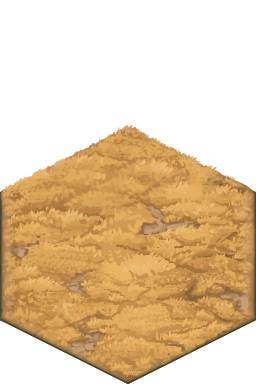
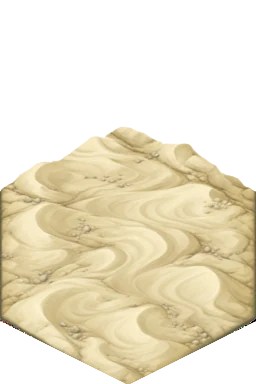
feat(territory): compose neighbor-aware biome tiles

diff --git a/src/ui/territory_map_tile_composer.ts b/src/ui/territory_map_tile_composer.ts
@@ -1,0 +1,187 @@
+import { TERRITORY_AXIAL_DIRECTIONS } from '../sim/territory_manifest';
+import {
+  type TerritoryMapArt,
+  type TerritoryMapArtKey,
+  type TerritoryMapArtTransform,
+  territoryMapArtKeyForCell,
+  territoryMapArtTransformForCell,
+  territoryTransitionArtKey,
+} from './territory_map_art';
+import type { TerritoryMapHex } from './territory_map_view';
+
+export const TERRITORY_COMPOSITE_WIDTH = 226;
+export const TERRITORY_COMPOSITE_HEIGHT = 384;
+export const TERRITORY_COMPOSITE_PIVOT_X = TERRITORY_COMPOSITE_WIDTH / 2;
+export const TERRITORY_COMPOSITE_PIVOT_Y = 123 + 261 / 2;
+
+const FOOTPRINT_TOP = 123;
+const FOOTPRINT_BOTTOM = 384;
+const FOOTPRINT_RADIUS_Y = (FOOTPRINT_BOTTOM - FOOTPRINT_TOP) / 2;
+const FOOTPRINT_RADIUS_X = TERRITORY_COMPOSITE_WIDTH / Math.sqrt(3);
+const HEX_APOTHEM = Math.sqrt(3) / 2;
+const MAX_CACHE_ENTRIES = 128;
+
+function clamp01(value: number): number {
+  return Math.max(0, Math.min(1, value));
+}
+
+function smoothstep(edge0: number, edge1: number, value: number): number {
+  const t = clamp01((value - edge0) / (edge1 - edge0));
+  return t * t * (3 - 2 * t);
+}
+
+/**
+ * Calculates an irregular, deterministic material connection for one side of a
+ * tile. Coordinates are in the normalized 226x384 composition canvas. Noise is
+ * sampled in world space, so the contour remains stable while panning/zooming.
+ */
+export function territoryConnectionAlpha(
+  q: number,
+  r: number,
+  side: number,
+  x: number,
+  y: number,
+): number {
+  const dx = (x - TERRITORY_COMPOSITE_PIVOT_X) / FOOTPRINT_RADIUS_X;
+  const dy = (y - TERRITORY_COMPOSITE_PIVOT_Y) / FOOTPRINT_RADIUS_Y;
+  const angle = -(Math.PI / 3) * side;
+  const nx = Math.cos(angle);
+  const ny = Math.sin(angle);
+  const inwardDistance = HEX_APOTHEM - (dx * nx + dy * ny);
+  if (inwardDistance < -0.015 || inwardDistance > 0.48) return 0;
+
+  const worldX = Math.sqrt(3) * (q + r / 2) + dx;
+  const worldY = 1.5 * r + dy;
+  const broad = Math.sin(worldX * 5.73 + worldY * 4.11) * 0.045;
+  const fine = Math.sin(worldX * 12.17 - worldY * 9.37 + side * 0.71) * 0.018;
+  const connectionDepth = 0.34 + broad + fine;
+  return (1 - smoothstep(0.015, connectionDepth, inwardDistance)) * 0.5;
+}
+
+function compositeHexPath(ctx: CanvasRenderingContext2D): void {
+  ctx.moveTo(TERRITORY_COMPOSITE_PIVOT_X, FOOTPRINT_TOP);
+  ctx.lineTo(TERRITORY_COMPOSITE_WIDTH, FOOTPRINT_TOP + FOOTPRINT_RADIUS_Y / 2);
+  ctx.lineTo(TERRITORY_COMPOSITE_WIDTH, FOOTPRINT_BOTTOM - FOOTPRINT_RADIUS_Y / 2);
+  ctx.lineTo(TERRITORY_COMPOSITE_PIVOT_X, FOOTPRINT_BOTTOM);
+  ctx.lineTo(0, FOOTPRINT_BOTTOM - FOOTPRINT_RADIUS_Y / 2);
+  ctx.lineTo(0, FOOTPRINT_TOP + FOOTPRINT_RADIUS_Y / 2);
+  ctx.closePath();
+}
+
+function drawArt(
+  ctx: CanvasRenderingContext2D,
+  image: HTMLImageElement,
+  transform: TerritoryMapArtTransform,
+  clipToFootprint: boolean,
+): void {
+  ctx.save();
+  if (clipToFootprint) {
+    ctx.beginPath();
+    compositeHexPath(ctx);
+    ctx.clip();
+  }
+  ctx.translate(TERRITORY_COMPOSITE_PIVOT_X, TERRITORY_COMPOSITE_PIVOT_Y);
+  if (transform.rotationSteps) ctx.rotate((transform.rotationSteps * Math.PI) / 3);
+  if (transform.mirrorX) ctx.scale(-1, 1);
+  ctx.drawImage(
+    image,
+    -TERRITORY_COMPOSITE_PIVOT_X,
+    -TERRITORY_COMPOSITE_PIVOT_Y,
+    TERRITORY_COMPOSITE_WIDTH,
+    TERRITORY_COMPOSITE_HEIGHT,
+  );
+  ctx.restore();
+}
+
+function connectionMask(cell: TerritoryMapHex, side: number): HTMLCanvasElement {
+  const canvas = document.createElement('canvas');
+  canvas.width = TERRITORY_COMPOSITE_WIDTH;
+  canvas.height = TERRITORY_COMPOSITE_HEIGHT;
+  const ctx = canvas.getContext('2d');
+  if (!ctx) return canvas;
+  const mask = ctx.createImageData(canvas.width, canvas.height);
+  for (let y = FOOTPRINT_TOP; y < canvas.height; y += 1) {
+    for (let x = 0; x < canvas.width; x += 1) {
+      const alpha = territoryConnectionAlpha(cell.q, cell.r, side, x + 0.5, y + 0.5);
+      if (alpha <= 0) continue;
+      mask.data[(y * canvas.width + x) * 4 + 3] = Math.round(alpha * 255);
+    }
+  }
+  ctx.putImageData(mask, 0, 0);
+  return canvas;
+}
+
+function connectionSignature(cell: TerritoryMapHex, baseKey: TerritoryMapArtKey): string {
+  return `${cell.q},${cell.r}:${baseKey}:${cell.neighborBiomes
+    .map((biome) => biome ?? '-')
+    .join(',')}`;
+}
+
+/**
+ * Produces one final image per neighbor combination instead of painting generic
+ * bands over the visible map. Only cross-biome sides need a connection layer;
+ * same-biome authored tiles already share one palette and remain crisp.
+ */
+export class TerritoryMapTileComposer {
+  private readonly cache = new Map<string, HTMLCanvasElement>();
+
+  compose(cell: TerritoryMapHex, art: TerritoryMapArt): HTMLCanvasElement | null {
+    const baseKey = territoryMapArtKeyForCell(cell);
+    const baseImage = art[baseKey];
+    if (!baseImage) return null;
+    const connections = cell.neighborBiomes.map((neighborBiome, side) => {
+      if (!neighborBiome || neighborBiome === cell.biome) return null;
+      const key = territoryTransitionArtKey(neighborBiome, cell.q, cell.r, side);
+      const image = art[key];
+      if (!image) return undefined;
+      const [dq, dr] = TERRITORY_AXIAL_DIRECTIONS[side];
+      return {
+        image,
+        transform: territoryMapArtTransformForCell({ q: cell.q + dq, r: cell.r + dr }, key),
+        side,
+      };
+    });
+    if (connections.some((connection) => connection === undefined)) return null;
+    if (connections.every((connection) => connection === null)) return null;
+
+    const signature = connectionSignature(cell, baseKey);
+    const cached = this.cache.get(signature);
+    if (cached) {
+      this.cache.delete(signature);
+      this.cache.set(signature, cached);
+      return cached;
+    }
+
+    const canvas = document.createElement('canvas');
+    canvas.width = TERRITORY_COMPOSITE_WIDTH;
+    canvas.height = TERRITORY_COMPOSITE_HEIGHT;
+    const ctx = canvas.getContext('2d');
+    if (!ctx) return null;
+    ctx.imageSmoothingEnabled = true;
+    ctx.imageSmoothingQuality = 'high';
+    const baseTransform = territoryMapArtTransformForCell(cell, baseKey);
+    drawArt(ctx, baseImage, baseTransform, baseTransform.rotationSteps !== 0);
+
+    for (const connection of connections) {
+      if (!connection) continue;
+      const layer = document.createElement('canvas');
+      layer.width = canvas.width;
+      layer.height = canvas.height;
+      const layerCtx = layer.getContext('2d');
+      if (!layerCtx) continue;
+      layerCtx.imageSmoothingEnabled = true;
+      layerCtx.imageSmoothingQuality = 'high';
+      drawArt(layerCtx, connection.image, connection.transform, true);
+      layerCtx.globalCompositeOperation = 'destination-in';
+      layerCtx.drawImage(connectionMask(cell, connection.side), 0, 0);
+      ctx.drawImage(layer, 0, 0);
+    }
+
+    this.cache.set(signature, canvas);
+    if (this.cache.size > MAX_CACHE_ENTRIES) {
+      const oldest = this.cache.keys().next().value;
+      if (oldest) this.cache.delete(oldest);
+    }
+    return canvas;
+  }
+}

diff --git a/src/ui/territory_map_painter.ts b/src/ui/territory_map_painter.ts
@@ -9,9 +9,9 @@ import {
   territoryMapArt,
   territoryMapArtKeyForCell,
   territoryMapArtTransformForCell,
-  territoryTransitionArtKey,
   territoryTerrainArtRect,
 } from './territory_map_art';
+import { TerritoryMapTileComposer } from './territory_map_tile_composer';
 import {
   buildTerritoryMapModel,
   type TerritoryMapCenter,
@@ -59,6 +59,8 @@ export interface TerritoryPaintOptions {
 }
 
 export class TerritoryMapPainter {
+  private readonly tileComposer = new TerritoryMapTileComposer();
+
   constructor(private readonly onArtReady: () => void = () => undefined) {}
 
   paint(ctx: CanvasRenderingContext2D, options: TerritoryPaintOptions): TerritoryMapModel | null {
@@ -285,15 +287,18 @@ export class TerritoryMapPainter {
     const sorted = [...cells].sort((a, b) => a.my - b.my || a.mx - b.mx);
     ctx.imageSmoothingEnabled = true;
     ctx.imageSmoothingQuality = 'high';
-    // Each cell draws one complete authored tile, followed by six possible
-    // neighbor-aware material bands. The bands are generated at runtime for
-    // every directional combination, avoiding a brittle transition-sprite
-    // matrix while keeping the exact authored hex footprint and pivot.
+    // Every cross-biome neighbor combination resolves to one cached, composed
+    // tile image. No generic overlay bands are painted into the final map.
     for (const cell of sorted) {
       const key = territoryMapArtKeyForCell(cell);
       const image = art[key];
       if (!image) continue;
       const rect = territoryTerrainArtRect(cell.mx, cell.my, cell.radiusPx);
+      const composite = this.tileComposer.compose(cell, art);
+      if (composite) {
+        ctx.drawImage(composite, rect.x, rect.y, rect.width, rect.height);
+        continue;
+      }
       const transform = territoryMapArtTransformForCell(cell, key);
       ctx.save();
       if (transform.rotationSteps) {
@@ -306,63 +311,7 @@ export class TerritoryMapPainter {
       if (transform.mirrorX) ctx.scale(-1, 1);
       ctx.drawImage(image, rect.x - cell.mx, rect.y - cell.my, rect.width, rect.height);
       ctx.restore();
-      this.biomeTransitions(ctx, cell, art);
     }
-  }
-
-  private biomeTransitions(
-    ctx: CanvasRenderingContext2D,
-    cell: TerritoryMapHex,
-    art: TerritoryMapArt,
-  ): void {
-    for (let side = 0; side < 6; side += 1) {
-      const neighborBiome = cell.neighborBiomes[side];
-      if (!neighborBiome || neighborBiome === cell.biome) continue;
-      const key = territoryTransitionArtKey(neighborBiome, cell.q, cell.r, side);
-      const image = art[key];
-      if (!image) continue;
-      const rect = territoryTerrainArtRect(cell.mx, cell.my, cell.radiusPx);
-      const transform = territoryMapArtTransformForCell(
-        { q: cell.q + side * 17, r: cell.r - side * 11 },
-        key,
-      );
-      // Two nested trapezoids feather the neighbor material into this cell.
-      // The opposite cell performs the mirrored operation, giving every shared
-      // edge a soft two-material handoff without hiding either tile's centre.
-      this.transitionBand(ctx, cell, side, 1, 0.72, image, rect, transform, 0.5);
-      this.transitionBand(ctx, cell, side, 0.72, 0.5, image, rect, transform, 0.19);
-    }
-  }
-
-  private transitionBand(
-    ctx: CanvasRenderingContext2D,
-    cell: TerritoryMapHex,
-    side: number,
-    outerScale: number,
-    innerScale: number,
-    image: HTMLImageElement,
-    rect: ReturnType<typeof territoryTerrainArtRect>,
-    transform: ReturnType<typeof territoryMapArtTransformForCell>,
-    alpha: number,
-  ): void {
-    const start = -Math.PI / 6 - (Math.PI / 3) * side;
-    const end = start + Math.PI / 3;
-    const outer = cell.radiusPx * outerScale;
-    const inner = cell.radiusPx * innerScale;
-    ctx.save();
-    ctx.beginPath();
-    ctx.moveTo(cell.mx + Math.cos(start) * outer, cell.my + Math.sin(start) * outer);
-    ctx.lineTo(cell.mx + Math.cos(end) * outer, cell.my + Math.sin(end) * outer);
-    ctx.lineTo(cell.mx + Math.cos(end) * inner, cell.my + Math.sin(end) * inner);
-    ctx.lineTo(cell.mx + Math.cos(start) * inner, cell.my + Math.sin(start) * inner);
-    ctx.closePath();
-    ctx.clip();
-    ctx.globalAlpha = alpha;
-    ctx.translate(cell.mx, cell.my);
-    if (transform.rotationSteps) ctx.rotate((transform.rotationSteps * Math.PI) / 3);
-    if (transform.mirrorX) ctx.scale(-1, 1);
-    ctx.drawImage(image, rect.x - cell.mx, rect.y - cell.my, rect.width, rect.height);
-    ctx.restore();
   }
 
   private artForCell(cell: TerritoryMapHex, art: TerritoryMapArt): HTMLImageElement | undefined {

diff --git a/tests/territory_map_art.test.ts b/tests/territory_map_art.test.ts
@@ -7,9 +7,16 @@ import {
   territoryFeatureArtRect,
   territoryMapArtKeyForCell,
   territoryMapArtTransformForCell,
-  territoryTransitionArtKey,
   territoryTerrainArtRect,
+  territoryTransitionArtKey,
 } from '../src/ui/territory_map_art';
+import {
+  TERRITORY_COMPOSITE_HEIGHT,
+  TERRITORY_COMPOSITE_PIVOT_X,
+  TERRITORY_COMPOSITE_PIVOT_Y,
+  TERRITORY_COMPOSITE_WIDTH,
+  territoryConnectionAlpha,
+} from '../src/ui/territory_map_tile_composer';
 
 const repoRoot = fileURLToPath(new URL('..', import.meta.url));
 const painterSource = readFileSync(join(repoRoot, 'src', 'ui', 'territory_map_painter.ts'), 'utf8');
@@ -97,7 +104,31 @@ describe('territory map art bundle', () => {
     expect(territoryTransitionArtKey('snowMountain', 1, 2, 1)).toMatch(/^snowfield/);
     expect(territoryTransitionArtKey('forest', 1, 2, 2)).toBe('woodlands');
     expect(territoryTransitionArtKey('desertMesa', 1, 2, 3)).toMatch(/^desert/);
-    expect(painterSource).toContain('this.biomeTransitions(ctx, cell, art)');
-    expect(painterSource).toContain('this.transitionBand(ctx, cell, side');
+    expect(painterSource).toContain('this.tileComposer.compose(cell, art)');
+    expect(painterSource).not.toContain('transitionBand');
+    expect(painterSource).not.toContain('biomeTransitions');
+  });
+
+  it('builds deterministic organic connection masks that preserve tile centres', () => {
+    const centre = territoryConnectionAlpha(
+      3,
+      -2,
+      0,
+      TERRITORY_COMPOSITE_PIVOT_X,
+      TERRITORY_COMPOSITE_PIVOT_Y,
+    );
+    const eastEdge = territoryConnectionAlpha(
+      3,
+      -2,
+      0,
+      TERRITORY_COMPOSITE_WIDTH - 0.5,
+      TERRITORY_COMPOSITE_PIVOT_Y,
+    );
+    const oppositeEdge = territoryConnectionAlpha(3, -2, 0, 0.5, TERRITORY_COMPOSITE_PIVOT_Y);
+    expect(TERRITORY_COMPOSITE_HEIGHT).toBe(384);
+    expect(centre).toBe(0);
+    expect(eastEdge).toBeGreaterThan(0.45);
+    expect(oppositeEdge).toBe(0);
+    expect(territoryConnectionAlpha(3, -2, 0, 225.5, 253.5)).toBe(eastEdge);
   });
 });
